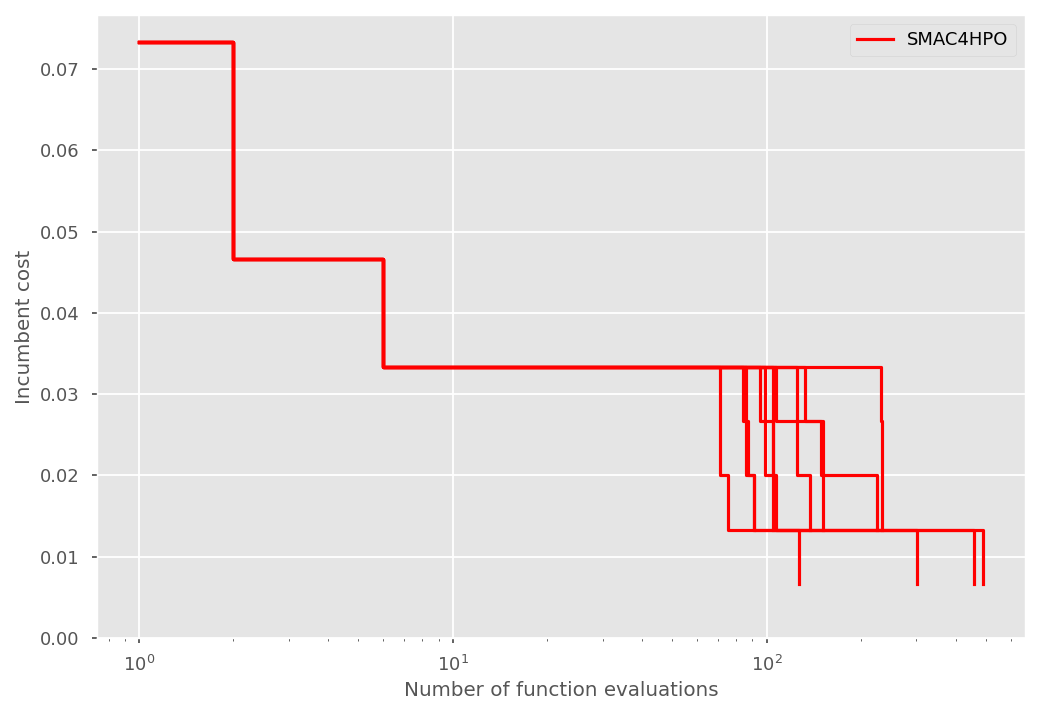
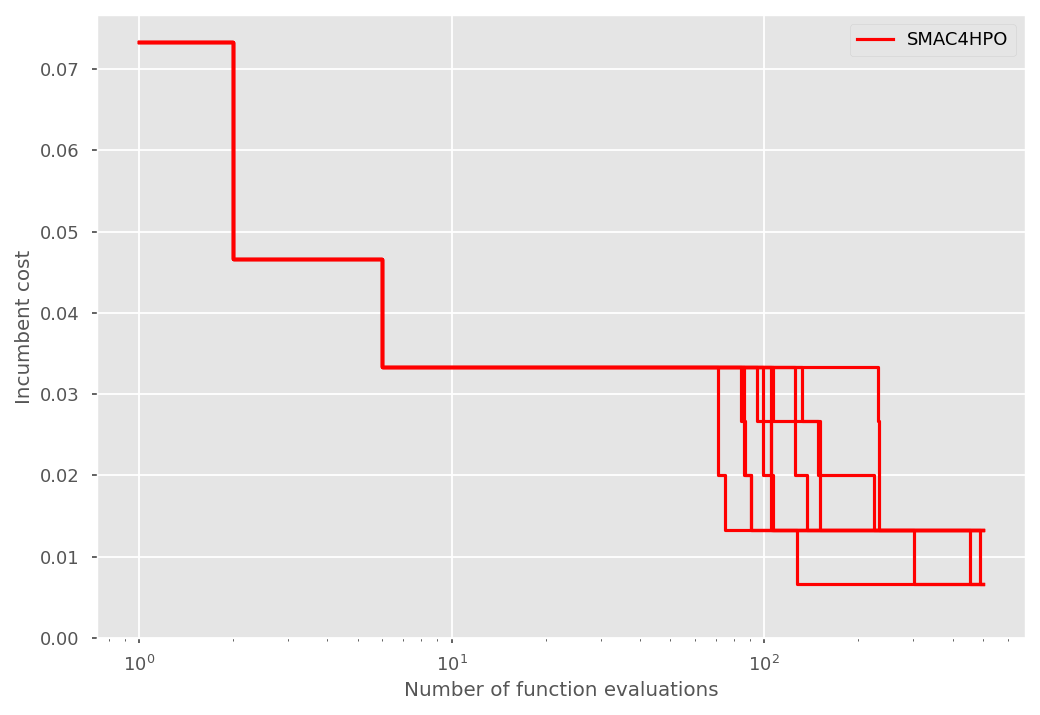
End all evaluation-Diagrams at a fixed point

diff --git a/w02_evaluation/scripts/automlPerformanceOverTime.py b/w02_evaluation/scripts/automlPerformanceOverTime.py
@@ -156,11 +156,23 @@ def read_trajectory(folder: Path, *,
     return res
 
 
+def get_max_x(data: Dict[str, Dict[str, List[Tuple[float, float]]]]) -> float:
+    """ Might be used to get a maximum x value in a set of data """
+    max_x = 0
+    for algorithm in data:
+        for run_data in data[algorithm].values():
+            x, y = list(zip(*run_data))
+            this_max_x = np.max(x)
+            if this_max_x > max_x:
+                max_x = this_max_x
+    return max_x
+
+
 def plot_all(data: Dict[str, Dict[str, List[Tuple[float, float]]]], *,
              group_color=True, step=False,
              log_x=False, log_y=False,
-             save_fig_path: Path = None, show_plots=True,
-             xlabel=None, ylabel=None):
+             save_fig_path: Path = None, show_plots: bool = True,
+             xlabel: str = None, ylabel: str = None, max_x: int = None):
     for algorithm, c in zip(data, ["red", "blue"]):
         if group_color:
             color = c
@@ -173,6 +185,9 @@ def plot_all(data: Dict[str, Dict[str, List[Tuple[float, float]]]], *,
             else:
                 label = f"{algorithm}_{run}"
             x, y = list(zip(*run_data))
+            if max_x is not None and max_x not in x:
+                x = list(x) + [max_x]
+                y = list(y) + [y[-1]]
 
             if step:
                 plt.step(x, y, label=label, color=color, where="post")
@@ -280,10 +295,10 @@ def group_values(data: Dict[str, List[Tuple[float, float]]],
 
 
 def plot_grouped(data: Dict[str, Dict[str, List[Tuple[float, float]]]], *,
-                 step=True, log_x=False, log_y=False,
-                 main_line="mean", bound_lines="stdev",
-                 save_fig_path=None, show_plots=True,
-                 xlabel=None, ylabel=None):
+                 step: bool = True, log_x: bool = False, log_y: bool = False,
+                 main_line: str = "mean", bound_lines: str = "stdev",
+                 save_fig_path: Path = None, show_plots: bool = True,
+                 xlabel: str = None, ylabel: str = None, max_x: int = None):
     assert main_line in ["mean", "median"]
     assert bound_lines in ["stdev", "stderr", "percentile"]
 
@@ -298,6 +313,11 @@ def plot_grouped(data: Dict[str, Dict[str, List[Tuple[float, float]]]], *,
         # Get grouped data
         x, y, (bounds_low, bounds_high) = group_values(data[algorithm].values(), main_line=main_line,
                                                        bounds=bound_lines)
+        if max_x is not None and max_x not in x:
+            x = np.append(x, max_x)
+            y = np.append(y, y[-1])
+            bounds_low = np.append(bounds_low, bounds_low[-1])
+            bounds_high = np.append(bounds_high, bounds_high[-1])
 
         # Plot boundary lines
         if bounds_low is not None and bounds_high is not None:
@@ -338,15 +358,16 @@ if __name__ == '__main__':
     GENERATE_DATA = False
     PLOT_DATA = True
     SHOW_PLOTS = False
+    RUNCOUNT_LIMIT = 500
 
     # Label: key in data file, label in plot
-    # X_LABEL = "cpu_time", "CPU time"
-    X_LABEL = "evaluations", "Number of function evaluations"
+    X_LABEL = "cpu_time", "CPU time"
+    # X_LABEL = "evaluations", "Number of function evaluations"
     Y_LABEL = "cost", "Incumbent cost"
 
     if GENERATE_DATA:
-        generate_data(SMAC4HPO, 10, output_dir=DATA_FOLDER, runcount_limit=500)
-        generate_data(SMAC4AC, 10, output_dir=DATA_FOLDER, runcount_limit=500)
+        generate_data(SMAC4HPO, 10, output_dir=DATA_FOLDER, runcount_limit=RUNCOUNT_LIMIT)
+        generate_data(SMAC4AC, 10, output_dir=DATA_FOLDER, runcount_limit=RUNCOUNT_LIMIT)
 
     if not PLOT_DATA:
         exit(0)
@@ -361,8 +382,9 @@ if __name__ == '__main__':
         "show_plots": SHOW_PLOTS,
         "xlabel": X_LABEL[1],
         "ylabel": Y_LABEL[1],
+        "max_x": RUNCOUNT_LIMIT if X_LABEL[0] == "evaluations" else None
     }
-    
+
     plot_all(smac4hpo_data,
              save_fig_path=PLOT_FOLDER / "4_smac4hpo.png", **cfg)
     plot_all(smac4hpo_data, step=True,
